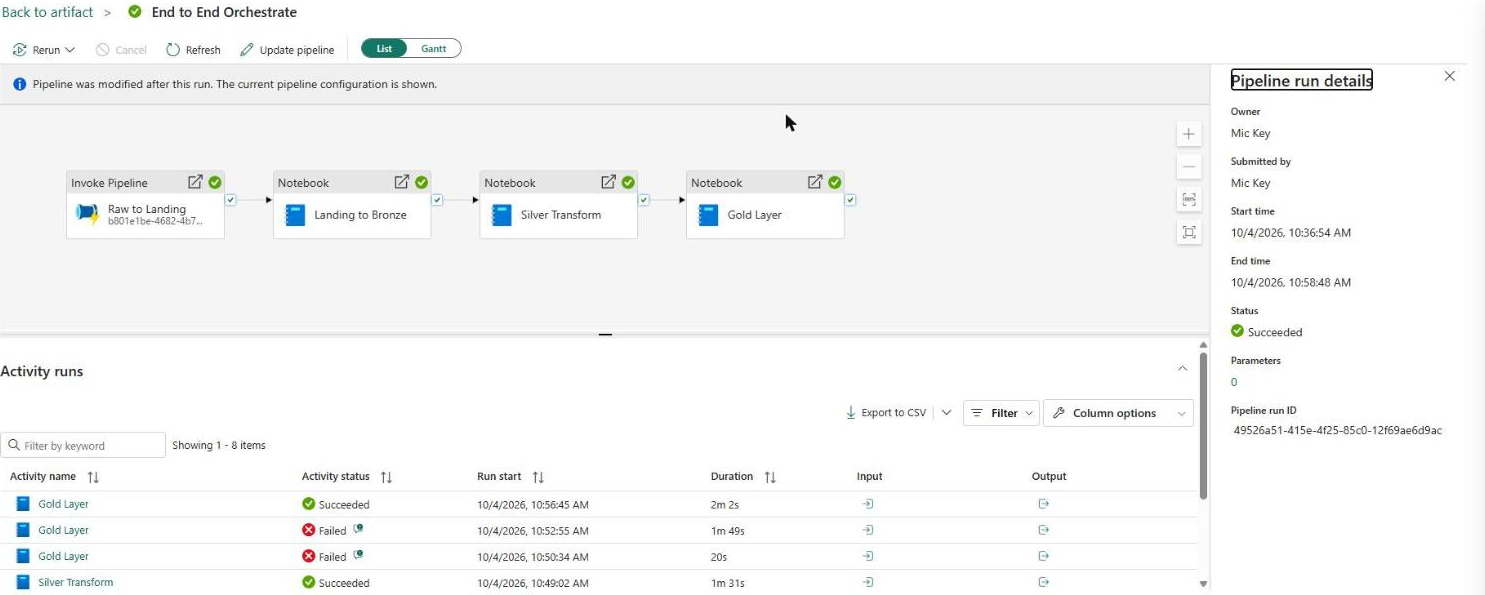
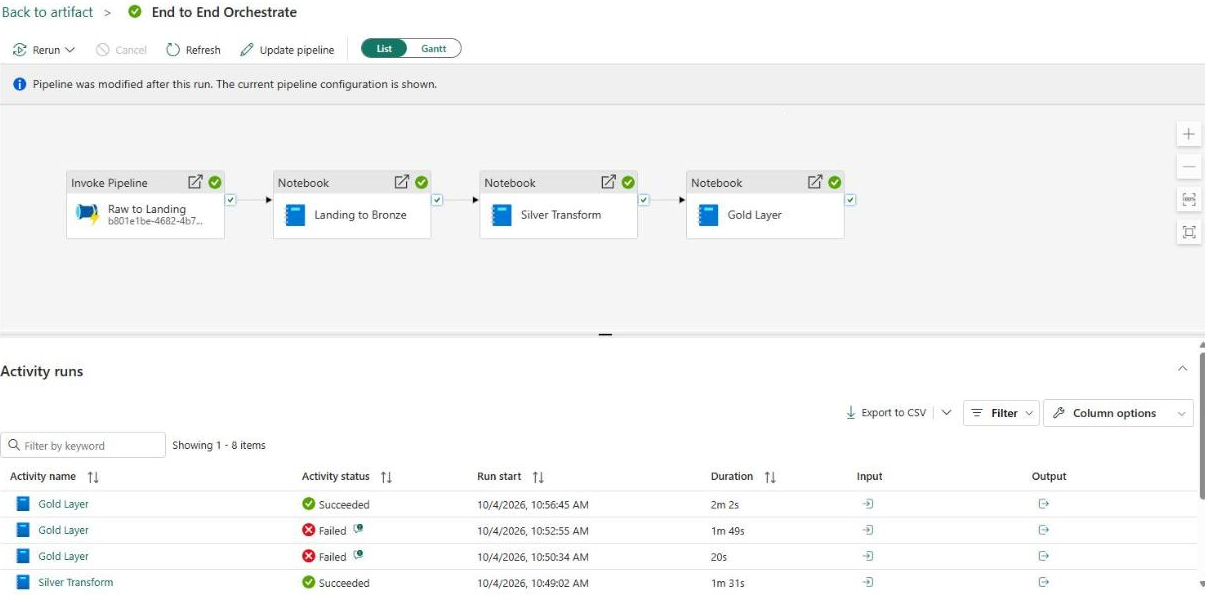
Add files via upload

diff --git a/README.md b/README.md
@@ -1,33 +1,43 @@
 # LMS Student Performance: End to End Data Engineering on Microsoft Fabric
 
 [![CI](https://github.com/anson4747/fabric-lms-medallion-pipeline/actions/workflows/ci.yml/badge.svg)](https://github.com/anson4747/fabric-lms-medallion-pipeline/actions/workflows/ci.yml)
+![Microsoft Fabric](https://img.shields.io/badge/Microsoft%20Fabric-0F7B6C?logo=microsoft&logoColor=white)
+![PySpark](https://img.shields.io/badge/PySpark-E25A1C?logo=apachespark&logoColor=white)
+![Delta Lake](https://img.shields.io/badge/Delta%20Lake-00ADD4?logo=delta&logoColor=white)
+![Power BI](https://img.shields.io/badge/Power%20BI-F2C811?logo=powerbi&logoColor=black)
+![Azure DevOps](https://img.shields.io/badge/Azure%20DevOps-0078D7?logo=azuredevops&logoColor=white)
+![GitHub Actions](https://img.shields.io/badge/GitHub%20Actions-2088FF?logo=githubactions&logoColor=white)
 
 An end to end lakehouse pipeline on **Microsoft Fabric** that ingests daily Learning Management System (LMS) extracts from **ADLS Gen2**, refines them through a **medallion architecture** (Landing, Bronze, Silver, Gold) with incremental **Delta Lake MERGE** loads, and serves a **Direct Lake** Power BI model. The workspace is version controlled with **Fabric Git integration (Azure DevOps)** and promoted from Dev to Prod with **Fabric deployment pipelines**.
 
 > **Focus of this project:** the data engineering behind the insight, from raw files to a governed, version controlled, deployable pipeline. The Power BI report is intentionally basic. It exists to prove the Gold layer and the Direct Lake model work end to end, not to showcase dashboard design.
+
+## Highlights
+
+* **Incremental ingestion:** only files modified today are picked up from ADLS Gen2 and landed into date partitions
+* **Idempotent medallion loads:** Bronze, Silver and Gold are upserted with Delta Lake `MERGE` on business keys, so reruns do not duplicate data
+* **Data quality in Silver:** deduplication, key validation, defaults, typed dates, logical consistency checks and derived business metrics
+* **Star schema served through Direct Lake:** no import refresh between Gold and Power BI
+* **Workspace as code:** every Fabric item is versioned in Git, with feature branches, a protected `main`, and a Dev to Prod deployment pipeline
+* **Tested outside Fabric:** the transformation logic has unit tests and runs end to end on synthetic data in GitHub Actions
 
 This repository holds the Fabric item definitions exported from the workspace, plus a local, tested copy of the transformation logic so the pipeline can be reviewed and validated without a Fabric capacity.
 
 ## Architecture
 
 ```mermaid
-flowchart LR
-    subgraph ADLS["ADLS Gen2 (fabricproject container)"]
-        RAW["raw/<br/>daily CSV extracts"]
-        LAND["landing/<br/>partitioned by processing_date"]
+flowchart TB
+    SRC["Daily LMS extract (CSV)"] --> RAW
+    subgraph ADLS["Azure Data Lake Storage Gen2"]
+        RAW["raw/"] -- "01 Raw to Landing: new files only" --> LAND["landing/ (partitioned by processing_date)"]
     end
-    subgraph FABRIC["Microsoft Fabric workspace"]
-        BR[("LH_Bronze<br/>bronze_data")]
-        SI[("LH_Silver<br/>silver_data")]
-        GO[("LH_Gold<br/>dim_student, dim_course,<br/>fact_student_performance")]
-        SM["LMS_model<br/>Direct Lake semantic model"]
-        RP["LMS Student Performance<br/>Power BI report"]
+    subgraph FABRIC["Microsoft Fabric: medallion lakehouse"]
+        BR[("Bronze: bronze_data")] -- "03 Silver Transform: clean, type, enrich, MERGE" --> SI[("Silver: silver_data")]
+        SI -- "04 Gold Layer: star schema, MERGE" --> GO[("Gold: dim_student, dim_course, fact_student_performance")]
+        GO --> SM["LMS_model (Direct Lake)"] --> RP["Validation report"]
     end
-    RAW -- "01 Raw to Landing<br/>(incremental, by modified date)" --> LAND
-    LAND -- "02 Landing to Bronze<br/>(dedupe + MERGE)" --> BR
-    BR -- "03 Silver Transform<br/>(clean, type, enrich + MERGE)" --> SI
-    SI -- "04 Gold Layer<br/>(star schema + MERGE)" --> GO
-    GO --> SM --> RP
+    LAND -- "02 Landing to Bronze: dedupe, MERGE" --> BR
+    ORCH{{"PL_00 End to End Orchestrate"}} -. "runs in order, retries" .-> FABRIC
 ```
 
 All four steps are orchestrated by **PL_00_End_to_End_Orchestrate**, which invokes the ingestion pipeline and then runs the three notebooks in sequence in a shared high concurrency Spark session (`sessionTag: lms_pipeline`), with 2 retries per notebook.
